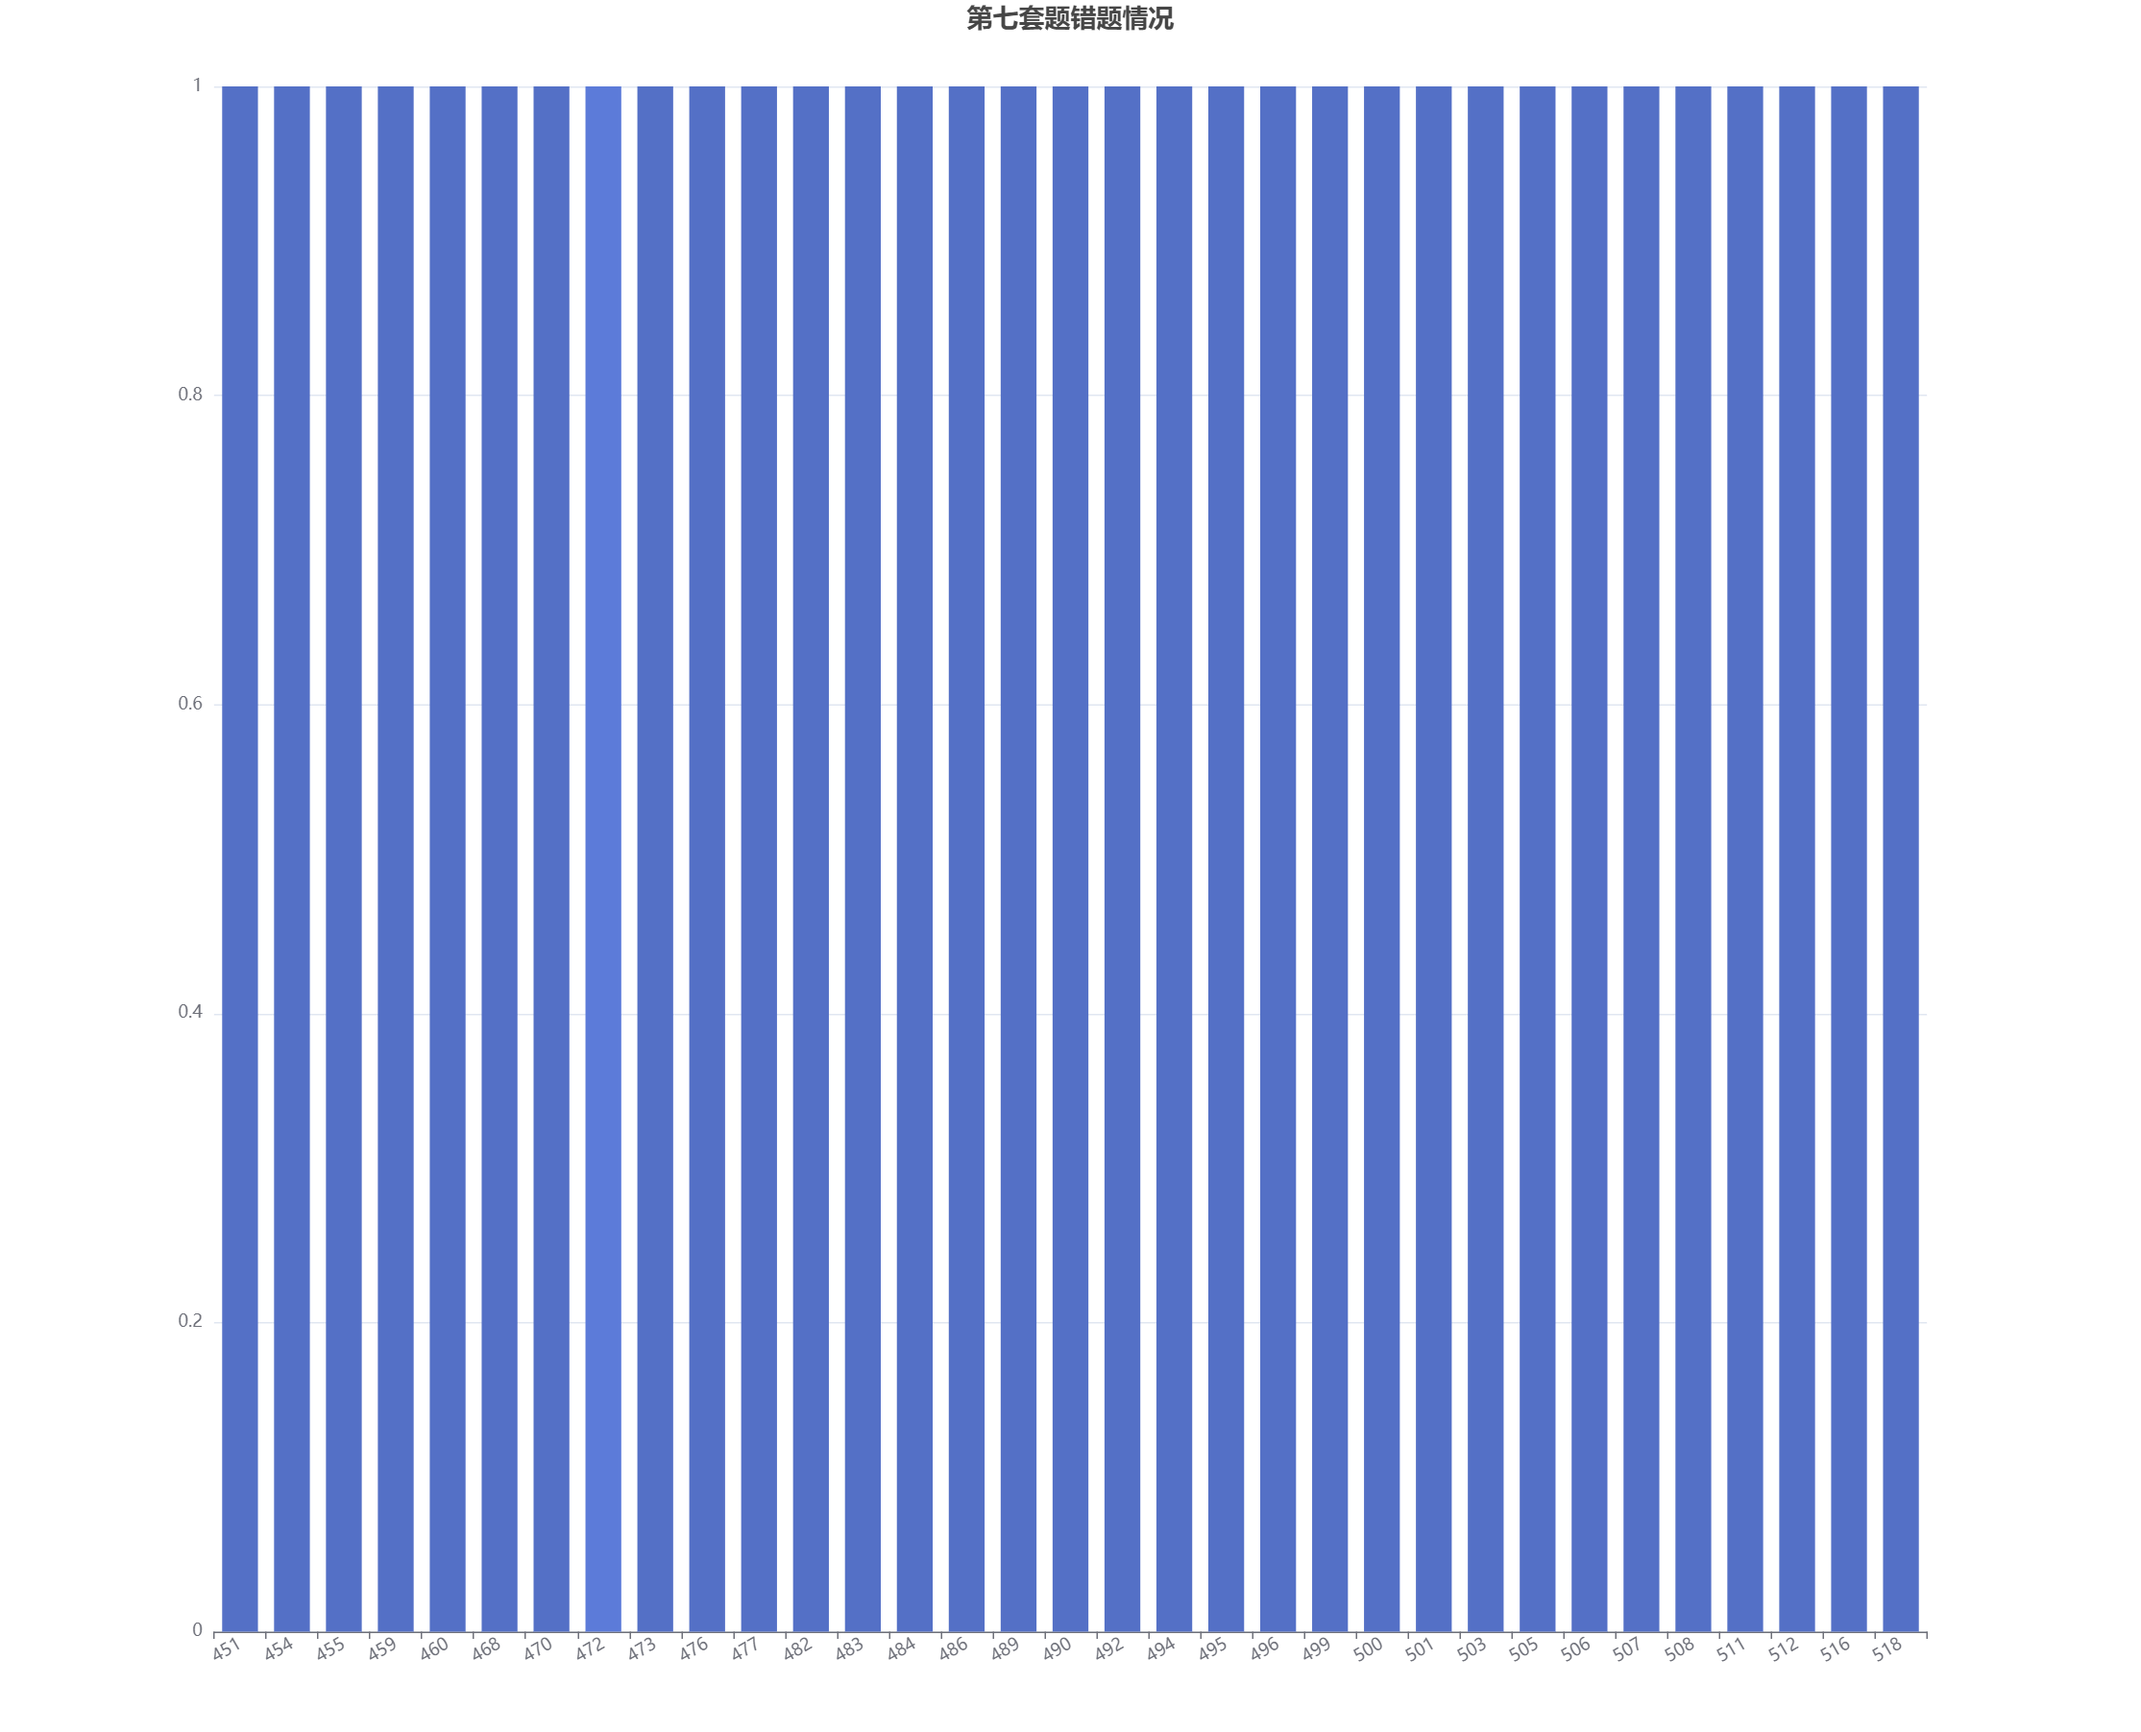
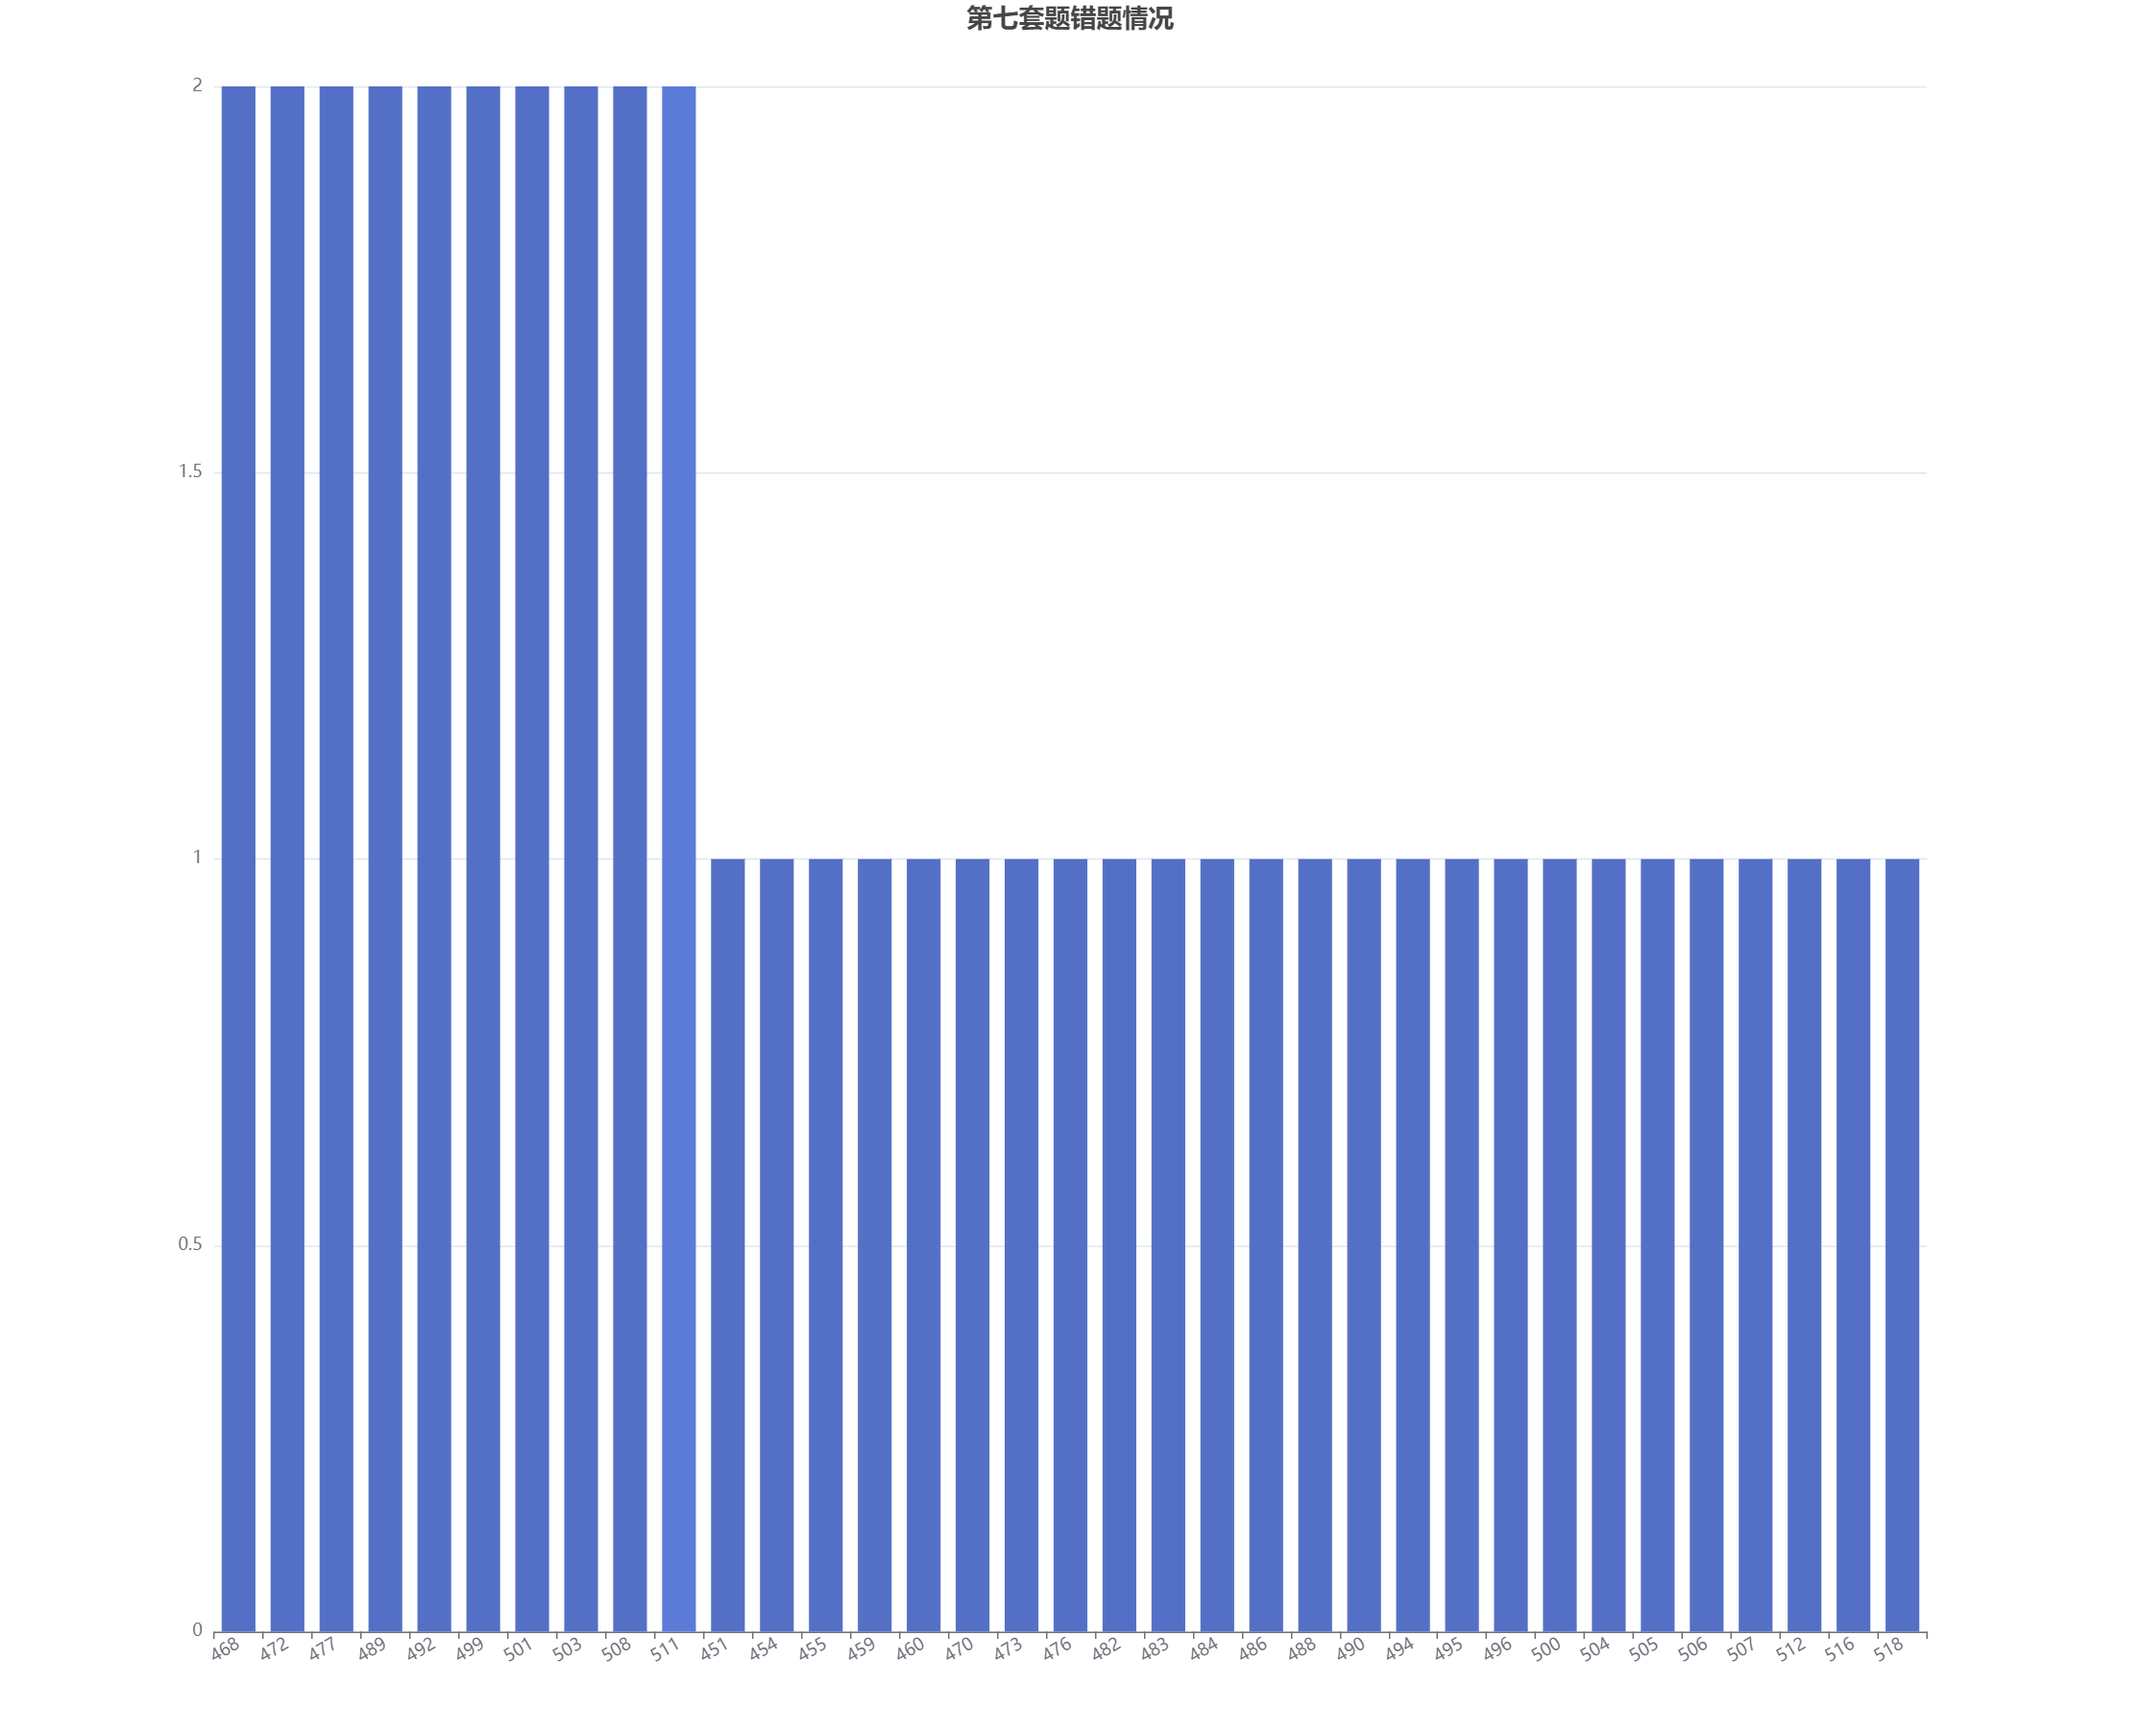
[update] update daily test result

diff --git a/src/testReview.js b/src/testReview.js
@@ -384,31 +384,33 @@ option = {
         ["455", 1],
         ["459", 1],
         ["460", 1],
-        ["468", 1],
+        ["468", 2],
         ["470", 1],
-        ["472", 1],
+        ["472", 2],
         ["473", 1],
         ["476", 1],
-        ["477", 1],
+        ["477", 2],
         ["482", 1],
         ["483", 1],
         ["484", 1],
         ["486", 1],
-        ["489", 1],
+        ["488", 1],
+        ["489", 2],
         ["490", 1],
-        ["492", 1],
+        ["492", 2],
         ["494", 1],
         ["495", 1],
         ["496", 1],
-        ["499", 1],
+        ["499", 2],
         ["500", 1],
-        ["501", 1],
-        ["503", 1],
+        ["501", 2],
+        ["503", 2],
+        ["504", 1],
         ["505", 1],
         ["506", 1],
         ["507", 1],
-        ["508", 1],
-        ["511", 1],
+        ["508", 2],
+        ["511", 2],
         ["512", 1],
         ["516", 1],
         ["518", 1],

diff --git a/src/dailyPractice.js b/src/dailyPractice.js
@@ -5,7 +5,25 @@ option = {
   },
   xAxis: {
     type: "category",
-    data: ["8/2", "8/4", "8/5", "8/8", "8/9", "8/10", "8/12", "8/13", "8/15", "8/18", "8/19", "8/20", "8/22", "8/23", "8/23", "8/24"],
+    data: [
+      "8/2",
+      "8/4",
+      "8/5",
+      "8/8",
+      "8/9",
+      "8/10",
+      "8/12",
+      "8/13",
+      "8/15",
+      "8/18",
+      "8/19",
+      "8/20",
+      "8/22",
+      "8/23",
+      "8/23",
+      "8/24",
+      "8/24",
+    ],
   },
   yAxis: {
     type: "value",
@@ -15,7 +33,10 @@ option = {
   },
   series: [
     {
-      data: [84, 84, 72, 92, 66.67, 85.33, 89.33, 70.67, 93.33, 60.00, 68.00, 69.33, 82.67, 57.67, 77.33, 51.47],
+      data: [
+        84, 84, 72, 92, 66.67, 85.33, 89.33, 70.67, 93.33, 60.0, 68.0, 69.33,
+        82.67, 57.67, 77.33, 51.47, 82.35,
+      ],
       type: "line",
       markLine: {
         symbol: ["none", "none"],

diff --git a/README.md b/README.md
@@ -60,30 +60,35 @@
 - 152, 153, 160, 161, 164, 165, 166, 169, 172, 175, 176, 181, 194, 201, 208, 210, 211, 213, 214, 216, 219, 222, 223
 - 正确率69.33%
 
+## 2021年8月21日测试错题
+
+- 307, 327, 328, 331, 332, 333, 338, 339, 344, 354, 360, 362, 364
+- 正确率82.67%
+
 ## 2021年8月22日测试错题
 
 - 307, 327, 328, 331, 332, 333, 338, 339, 344, 354, 360, 362, 364
 - 正确率82.67%
 
-## 2021年8月23日测试错题
-
-- 307, 327, 328, 331, 332, 333, 338, 339, 344, 354, 360, 362, 364
-- 正确率82.67%
-
-## 2021年8月24日测试错题（一）
+## 2021年8月23日测试错题（一）
 
 - 376, 379, 382, 394, 395, 397, 402, 403, 405, 407, 408, 410, 412, 413, 414, 416, 417, 421, 424, 427, 428, 431, 432, 434, 437, 439, 442, 443, 446, 447, 449
 - 正确率58.67%
 
-## 2021年8月24日测试错题（二）
+## 2021年8月23日测试错题（二）
 
 - 381, 382, 394, 395, 402, 407, 412, 414, 416, 417, 421, 424, 427, 428, 431, 432, 442, 443
 - 正确率77.33%
 
-## 2021年8月24日测试错题
+## 2021年8月24日测试错题（一）
 
 - 451, 454, 455, 459, 460, 407, 468, 470, 472, 473, 476, 477, 482, 483, 484, 486, 489, 490, 492, 494, 495, 496, 499, 500, 501, 503, 505, 506, 507, 508, 511, 512, 516, 518
 - 正确率51.47%
+
+## 2021年8月24日测试错题（二）
+
+- 468, 472, 477, 488, 489, 492, 499, 501, 503, 504, 508, 511
+- 正确率82.35%
 
 ## 图表
 
@@ -99,4 +104,6 @@
 
 ![06](img/testReview6.png)
 
-![07](./img/correctRate.png)
+![07](img/testReview7.png)
+
+![08](./img/correctRate.png)
